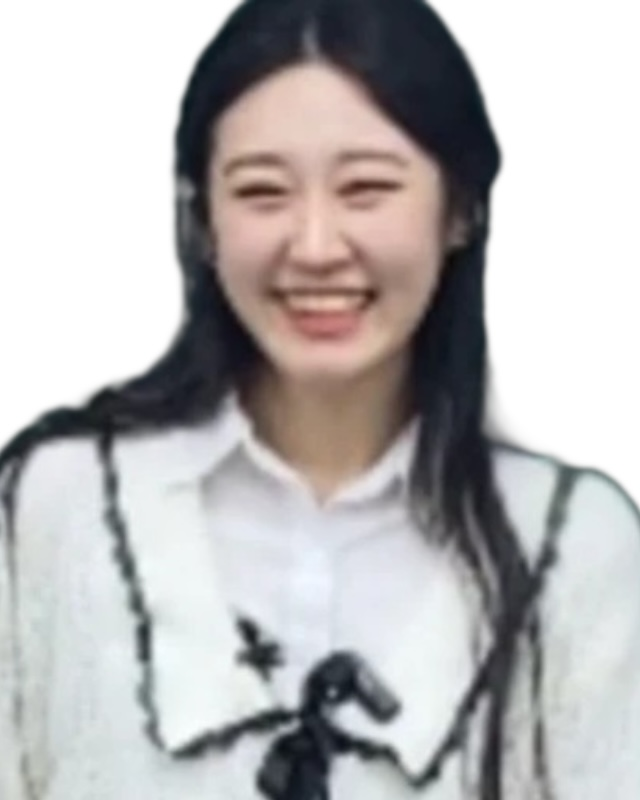
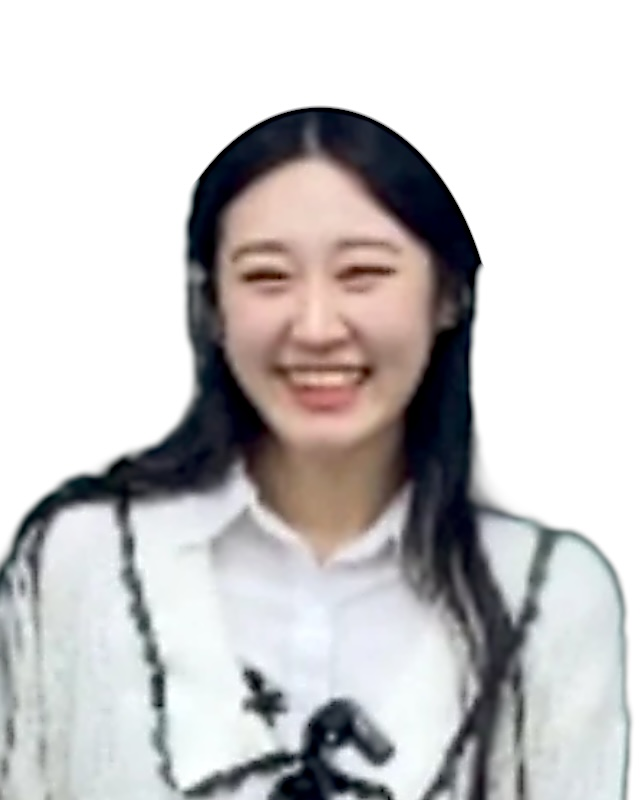
문지현 사진: 얼굴 크기 맞춤, 선명도 보정, 머리 윗부분 둥글게

diff --git a/index.html b/index.html
@@ -610,7 +610,7 @@ const T=[
 ];
 const list=document.getElementById('tlist');
 /* 사진: img/teachers/이름.jpg 를 PHOTO 에 적으면 사진, 없으면 성 한 글자 */
-const PHOTO={};['류성훈','이태형','장의순','김호랑','권현석','정민','홍진수','최정윤','이예섭','정지만','김현중','이창환','최현재','김경한','문지현','박정은'].forEach(n=>PHOTO[n]='img/teachers/'+n+'.jpg?v=1123b');
+const PHOTO={};['류성훈','이태형','장의순','김호랑','권현석','정민','홍진수','최정윤','이예섭','정지만','김현중','이창환','최현재','김경한','문지현','박정은'].forEach(n=>PHOTO[n]='img/teachers/'+n+'.jpg?v=1123c');
 /* 줄 순서: 1줄 국어 · 2줄 수학 · 3줄 영어 · 4줄 탐구 · 논술 (11/19 사장님 요청)
    같은 과목 안에서는 (탐구는 통합과학·통합사회·사탐 순으로 묶고) 사진 있는 강사 먼저, 나머지는 배열 순서 그대로 */
 const SUBJ=['국어','수학','영어','탐구','논술'];
